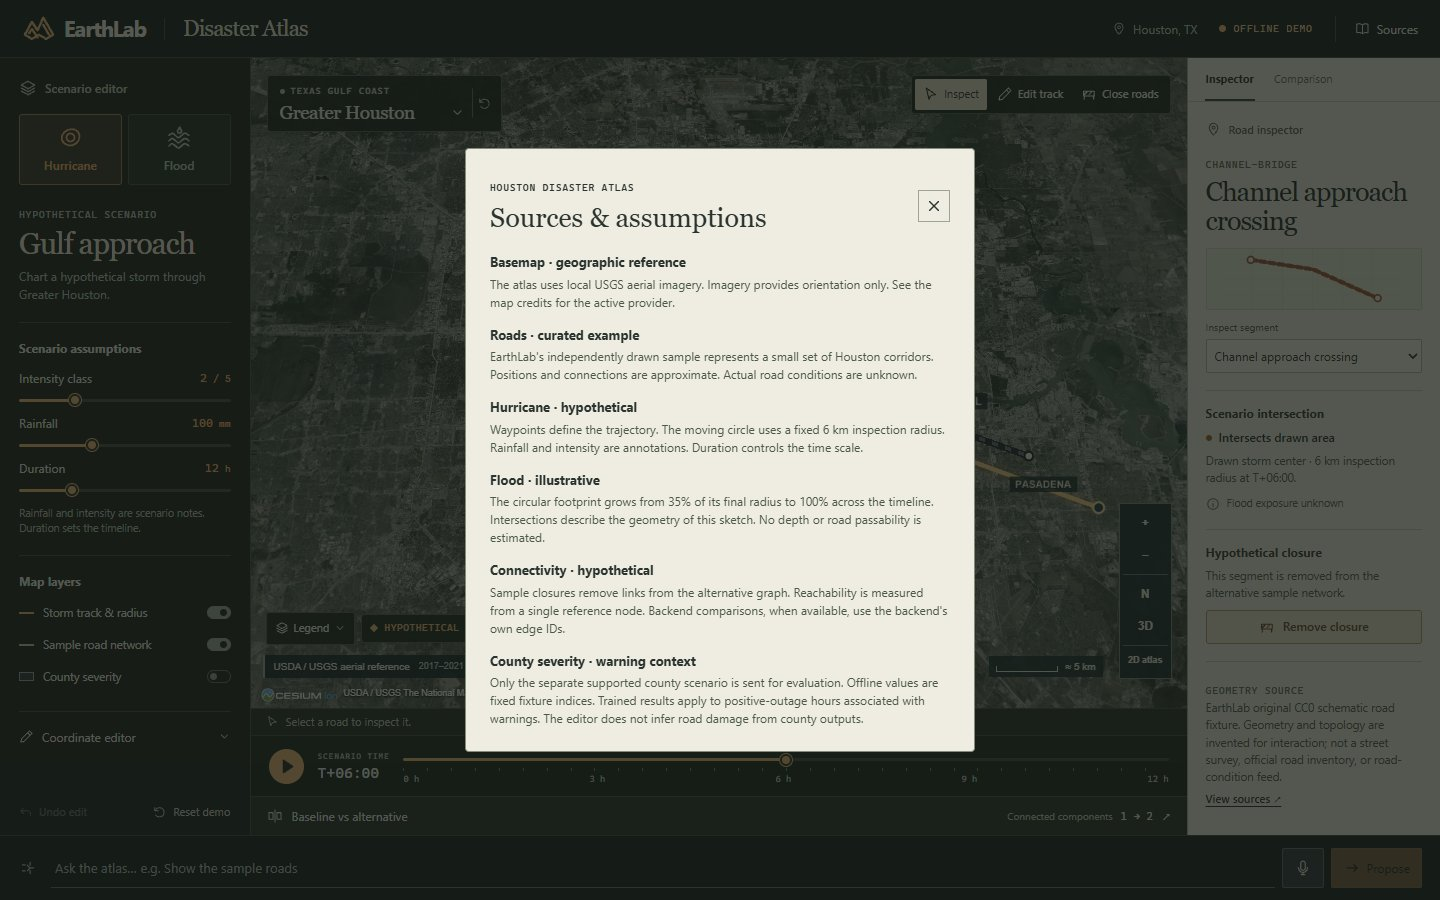
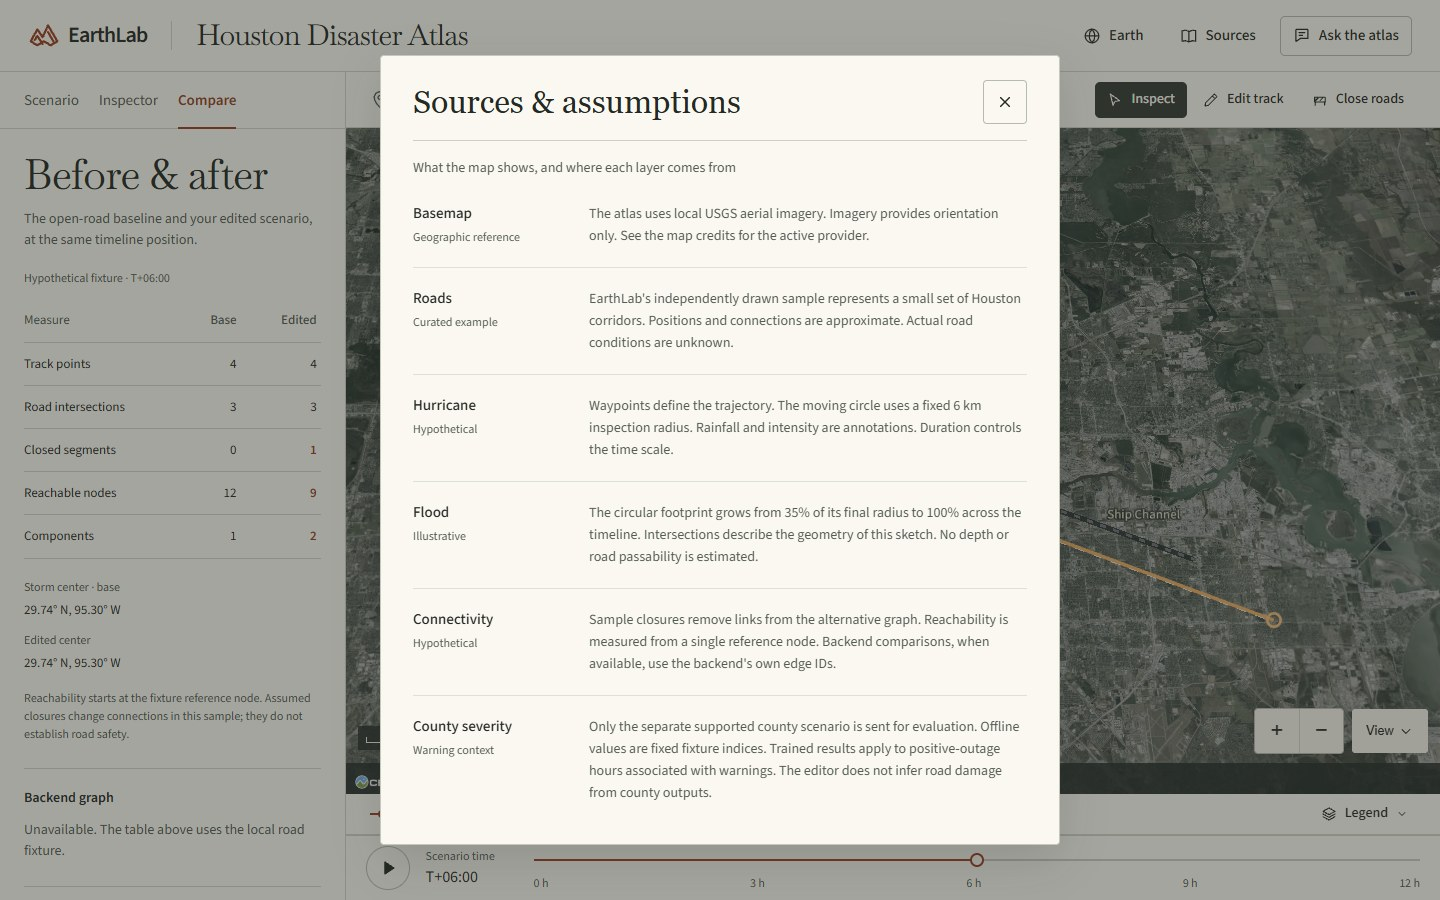
Record the Houston notebook walkthrough and verified screen captures

diff --git a/apps/web/README.md b/apps/web/README.md
@@ -26,24 +26,22 @@ The shared package supplies scenario, prediction, model metadata, network compar
 
 ## Browser captures
 
-| State              | Desktop                                                                                                         | Tablet                                                                                                  |
-| ------------------ | --------------------------------------------------------------------------------------------------------------- | ------------------------------------------------------------------------------------------------------- |
-| Hurricane          | [Opening map, 1440 × 900](docs/qa/houston-hurricane-1440.jpg) · [Edited track](docs/qa/hurricane-edit-1440.jpg) | [Opening map, 768 × 1024](docs/qa/houston-tablet-768.jpg)                                               |
-| Flood and closures | [Footprint and legend, 1280 × 720](docs/qa/flood-1280.jpg) · [Comparison](docs/qa/closures-comparison-1280.jpg) | [Scenario controls](docs/qa/editor-tablet-768.jpg) · [Road inspector](docs/qa/inspector-tablet-768.jpg) |
-| Context            | [County fixture](docs/qa/county-context-1280.jpg) · [Sources](docs/qa/sources-1440.jpg)                         |                                                                                                         |
+| View | Desktop | Phone or tablet |
+| --- | --- | --- |
+| Greater Houston | [Opening atlas, 1440 × 900](docs/qa/houston-hurricane-1440.jpg) | [Phone, 390 × 844](docs/qa/houston-phone-390.jpg) · [Tablet, 768 × 1024](docs/qa/houston-tablet-768.jpg) |
+| Notebook | [Selected road and its geometry](docs/qa/road-notebook-1440.jpg) | [Scenario sheet and editable route](docs/qa/notebook-phone-390.jpg) |
+| Scenario evidence | [Flood footprint and legend](docs/qa/flood-1280.jpg) · [Closure comparison](docs/qa/closures-comparison-1280.jpg) · [Sources](docs/qa/sources-1440.jpg) | |
 
-[Phone atlas, 390 × 844](docs/qa/houston-phone-390.jpg) · [Earth study-zone index](docs/qa/earth-index-1440.jpg) · [Downtown and Buffalo Bayou zone](docs/qa/zone-1440.jpg)
+[Interactive 2D Houston map](docs/qa/accessible-map-1440.jpg) · [Earth study-zone index](docs/qa/earth-index-1440.jpg) · [Downtown and Buffalo Bayou zone](docs/qa/zone-1440.jpg)
 
-The [imagery manifest](public/map/provenance.json) lists the provider, service-reported acquisition period, bounds and byte sizes for each aerial reference. Houston opens with bundled aerial imagery. Earth opens with bundled Natural Earth imagery. Closer Houston views can load online USGS detail. To use an additional licensed XYZ template in the atlas, set `VITE_ATLAS_IMAGERY_URL` and `VITE_ATLAS_IMAGERY_CREDIT`. The bundled images remain available if that provider fails.
-
-[Interactive 2D fallback](docs/qa/accessible-map-1440.jpg) · [Unavailable command service](docs/qa/command-unavailable-1440.jpg) · [Command confirmation with a test backend](docs/qa/test-command-review-1440.jpg) · [Graph comparison with a test backend](docs/qa/test-backend-comparison-1440.jpg).
+The [imagery manifest](public/map/provenance.json) gives the provider, service-reported acquisition period, geographic bounds and byte size of each aerial. Houston opens with bundled imagery. Natural Earth II supplies the wider map. Closer Houston views can load online USGS detail. To use a licensed XYZ imagery service, set `VITE_ATLAS_IMAGERY_URL` and `VITE_ATLAS_IMAGERY_CREDIT`. The bundled aerial and both atlas typefaces also work offline.
 
 ## Verification
 
-Run `pnpm typecheck`, `pnpm test` and `pnpm build` from the repository root. The build checks Cesium assets and both georeferenced WebP files against their manifest.
+Run `pnpm typecheck`, `pnpm test`, `pnpm contracts:check`, `pnpm openapi:check` and `pnpm build` from the repository root. The build verifies the Cesium assets and both georeferenced WebP files against the manifest.
 
-The browser checks cover pointer placement and dragging in 3D and forced WebGL fallback, timeline playback, keyboard editing, road selection beneath a flood footprint, closure comparisons and reset. Command tests exercise confirmation, unsupported actions, stale responses and replay. Backend graph tests verify catalog edge IDs and reject comparisons from a different source. Successful provider responses in the two test-backend screenshots are controlled test inputs.
+The November 21, 2026 redesign passed type checking, the production build, contract and OpenAPI checks, 62 frontend tests, and 52 Python tests. Pytest skipped three ML modules because the application environment omits NumPy. Vite reported its size warning for the lazy Cesium bundle.
 
-Viewport reviews covered 390 × 844, 720 × 450, 768 × 1024, 1280 × 720 and 1440 × 900. The phone has dedicated touch targets for the map tools and drawers. Keyboard users can skip directly to the atlas or the Earth index, open a zone, and return focus to its entry.
+Chrome passed 13 map interaction groups in 3D and forced 2D, covering pointer and keyboard edits, timeline playback, road selection beneath a flood footprint, closure comparison and reset. Ten tests covered command confirmation, cancellation, stale responses and replay, plus backend graph IDs and source validation. The production bundle also passed with the API and external imagery blocked.
 
-On November 21, 2026, type checking, the production build, shared contract checks and the OpenAPI check passed. With PR #2 on the base branch, 62 frontend tests and 52 Python tests passed. Pytest skipped three ML test modules in the application environment because its lockfile omits the training dependencies. Chrome passed 11 scenario interaction groups in 3D and forced WebGL fallback, the flood-picking regression, and nine command/network checks. The built application also passed navigation and scenario checks with API and external imagery requests blocked. Vite reports a size warning for the lazy Cesium bundle.
+Layout and navigation were checked at 320 × 568, 390 × 844, 720 × 450, 768 × 1024, 1280 × 720 and 1440 × 900. In compact layouts, the three notebook pages open from the bottom. **Edit track on map** and **Edit footprint on map** close the sheet and place keyboard focus on the map.
